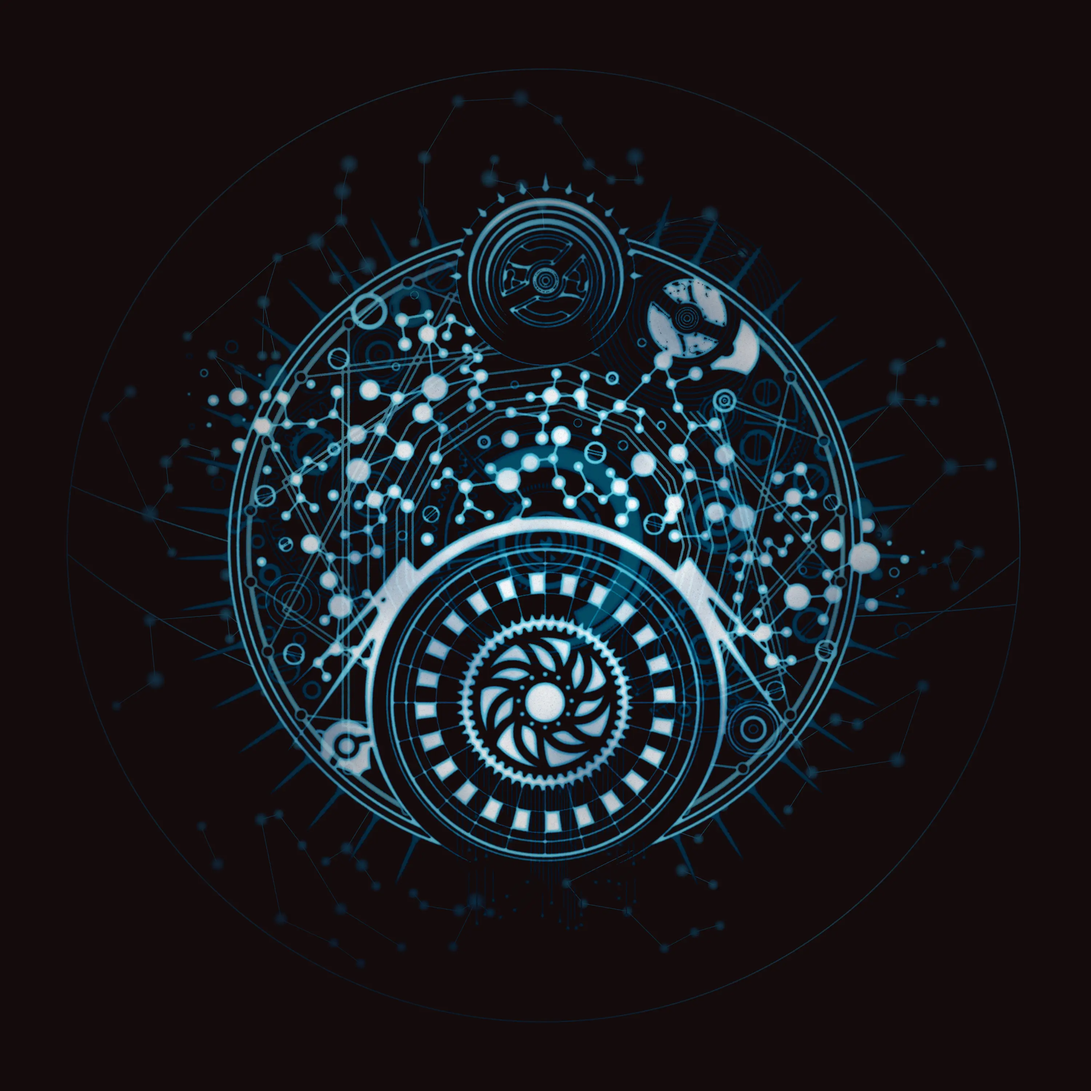
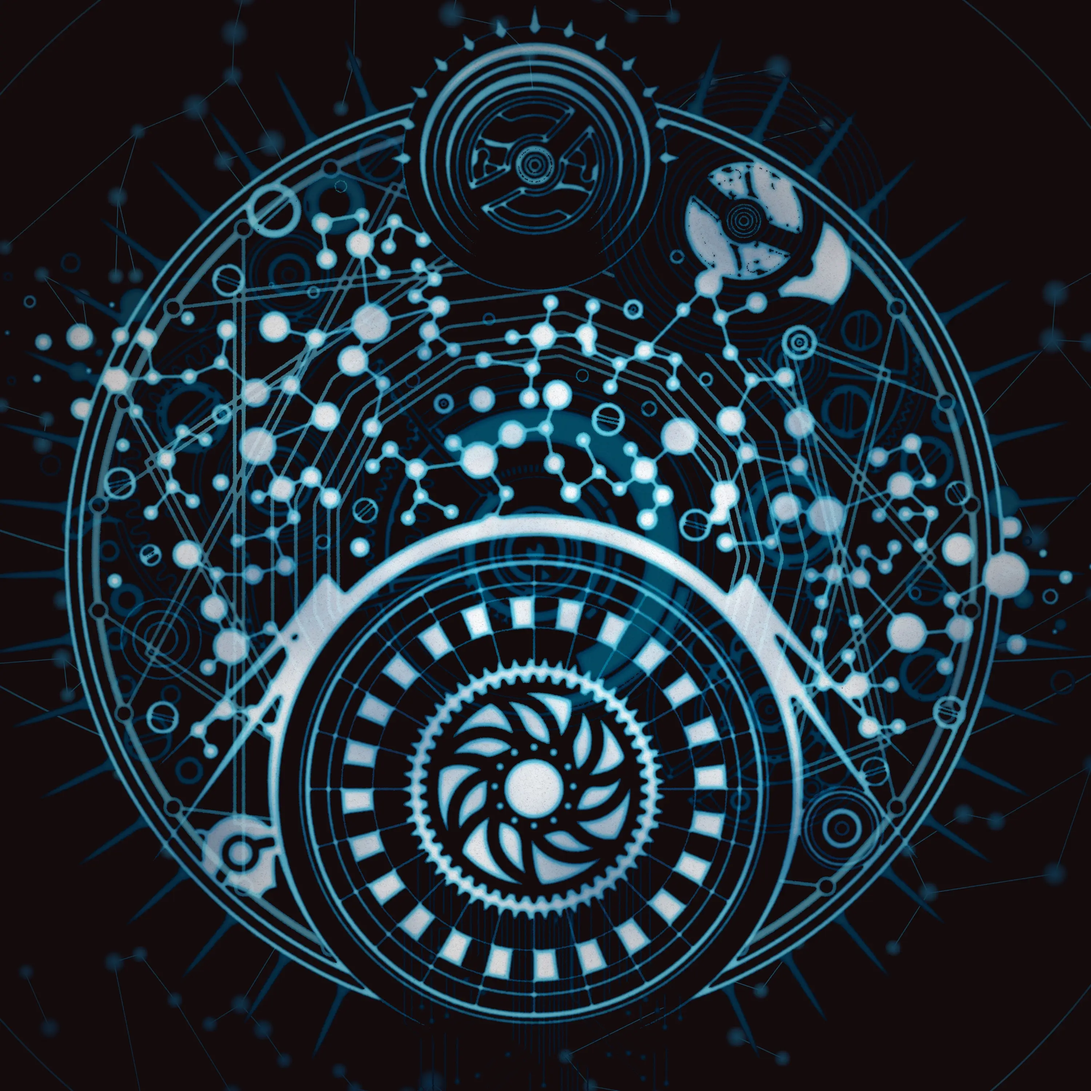
Add background images to music pages

diff --git a/app/components/music/MusicTemplate.tsx b/app/components/music/MusicTemplate.tsx
@@ -1,27 +1,31 @@
 import { MusicData } from '@/app/types';
 import React from 'react';
 import Section from '../ui/Section';
-import ButtonLink from '../ui/ButtonLink';
 import MusicNav from './MusicNav';
 import MainImage from './MainImage';
 import ReleaseDate from './ReleaseDate';
 import TrackListing from './TrackListing';
 import ListenBlock from './ListenBlock';
 import Credits from './Credits';
-import BackgroundImages from '../home/BackgroundImage';
+import BackgroundImage from '../BackgroundImage';
 
 const MusicTemplate = ({ release }: { release: MusicData }) => {
   return (
     <>
-      {/* <BackgroundImages /> */}
+      {release.backgroundImage && (
+        <BackgroundImage
+          url={release.backgroundImage.url}
+          altText={release.backgroundImage.altText}
+        />
+      )}
       <Section className='my-[4.5rem] sm:my-[6rem]'>
         <h1 className='text-2xl sm:text-4xl pb-4 border-white/50 border-b-[1px]'>{release.name}</h1>
         <MusicNav className='my-10' currentSlug={release.slug} />
         <div className='sm:grid sm:grid-cols-2 gap-5'>
           <MainImage
             className='col-start-1 row-start-1 row-span-2'
-            frontCover={release.frontCover}
-            name={release.name}
+            imgUrl={release.frontCover.url}
+            altText={release.frontCover.altText}
           />
           <ReleaseDate
             className='col-start-2 row-start-1 row-span-1'

diff --git a/app/components/music/MainImage.tsx b/app/components/music/MainImage.tsx
@@ -2,18 +2,18 @@ import React from 'react';
 import Image from 'next/image';
 
 interface MainImageProps {
-  frontCover: string;
-  name: string;
+  imgUrl: string;
+  altText: string;
   className?: string;
 }
 
-const MainImage = ({ className = '', frontCover, name }: MainImageProps) => {
+const MainImage = ({ className = '', imgUrl, altText }: MainImageProps) => {
   return (
     <div className={`${className} relative aspect-square max-w-full max-h-full`}>
       <Image
         priority
-        src={frontCover}
-        alt={`${name} album cover`}
+        src={imgUrl}
+        alt={altText}
         className='object-cover'
         fill
         sizes='(max-width: 768px) 100vw, (max-width: 1200px) 50vw, 33vw'

diff --git a/app/data/music/heresy.ts b/app/data/music/heresy.ts
@@ -27,7 +27,14 @@ const heresy: MusicData = {
     small:
       'https://bandcamp.com/EmbeddedPlayer/album=1464114074/size=small/bgcol=333333/linkcol=e32c14/artwork=none/transparent=true/',
   },
-  frontCover: '/imgs/heresy/heresy-front-cover.webp',
+  frontCover: {
+    url: '/imgs/heresy/heresy-front-cover.webp',
+    altText: 'Shepherds of Cassini, In Thrall to Heresy, album cover, artwork by Moonroot',
+  },
+  backgroundImage: {
+    url: '/imgs/heresy/heresy-back-cover.webp',
+    altText: 'Shepherds of Cassini, In Thrall to Heresy, back cover artowrk by Moonroot',
+  },
   listenLinks: [
     {
       label: 'Bandcamp | Buy CD / Vinyl',

diff --git a/app/data/music/helios.ts b/app/data/music/helios.ts
@@ -31,7 +31,14 @@ const helios: MusicData = {
     small:
       'https://bandcamp.com/EmbeddedPlayer/album=1464114074/size=small/bgcol=333333/linkcol=e32c14/artwork=none/transparent=true/',
   },
-  frontCover: '/imgs/helios/helios-front-cover.jpg',
+  frontCover: {
+    url: '/imgs/helios/helios-front-cover.jpg',
+    altText: 'Shepherds of Cassini, Helios Forsaken album cover, art by Chris Lewis',
+  },
+  backgroundImage: {
+    url: '/imgs/helios/helios-background.webp',
+    altText: 'Shepherds of Cassini, Helios Forsaken album art by Chris Lewis',
+  },
   listenLinks: [
     {
       label: 'Bandcamp | Buy CD',

diff --git a/app/data/music/selftitled.ts b/app/data/music/selftitled.ts
@@ -28,7 +28,15 @@ const selfTitled: MusicData = {
     large: '',
     small: '',
   },
-  frontCover: '/imgs/selftitled/selftitled-front-cover.jpg',
+  frontCover: {
+    url: '/imgs/selftitled/selftitled-front-cover.jpg',
+    altText: 'Shepherds of Cassini, self titled album cover, artwork by Chris Lewis',
+  },
+  backgroundImage: {
+    url: '/imgs/selftitled/selftitled-background.webp',
+    altText:
+      'Shepherds of Cassini, self titled artwork, layout by Chris Lewis, hand drawn text by Omar Al-Hashimi and Marie Pfister',
+  },
   listenLinks: [
     {
       label: 'Bandcamp | Buy CD',

diff --git a/app/components/home/Music.tsx b/app/components/home/Music.tsx
@@ -20,8 +20,8 @@ const Music = () => {
               <div className='relative aspect-square w-full'>
                 <Image
                   priority
-                  src={release.frontCover}
-                  alt={`${release.name} front cover image`}
+                  src={release.frontCover.url}
+                  alt={release.frontCover.altText}
                   className='object-cover'
                   fill
                   sizes='(max-width: 768px) 100vw, (max-width: 1200px) 50vw, 33vw'

diff --git a/app/components/home/hero/Hero.tsx b/app/components/home/hero/Hero.tsx
@@ -17,8 +17,8 @@ const Hero = () => {
           <div className='relative aspect-square max-w-full max-h-full w-auto sm:w-full'>
             <Image
               priority
-              src={data.frontCover}
-              alt='In Thrall to Heresy album cover'
+              src={data.frontCover.url}
+              alt={data.frontCover.altText}
               className='object-cover'
               fill
               sizes='(max-width: 768px) 100vw, (max-width: 1200px) 50vw, 33vw'

diff --git a/app/types/index.ts b/app/types/index.ts
@@ -14,13 +14,19 @@ export interface EmbedLinks {
   small: string;
 }
 
+interface Image {
+  url: string;
+  altText: string;
+}
+
 export interface MusicData {
   name: string;
   slug: string;
   releaseDate?: Date;
   trackListing: string[];
   embed: EmbedLinks;
-  frontCover: string;
+  frontCover: Image;
+  backgroundImage?: Image;
   listenLinks: ListenLink[];
   credits: Credit[];
 }

diff --git a/app/page.tsx b/app/page.tsx
@@ -1,5 +1,5 @@
 import About from './components/home/about/About';
-import BackgroundImage from './components/home/BackgroundImage';
+import BackgroundImage from './components/BackgroundImage';
 import Contact from './components/home/contact/Contact';
 import Hero from './components/home/hero/Hero';
 import Music from './components/home/Music';

diff --git a/app/components/BackgroundImage.tsx b/app/components/BackgroundImage.tsx
@@ -1,6 +1,3 @@
-'use client';
-
-import React, { useState, useEffect } from 'react';
 import Image from 'next/image';
 
 interface BackgroundImageProps {
